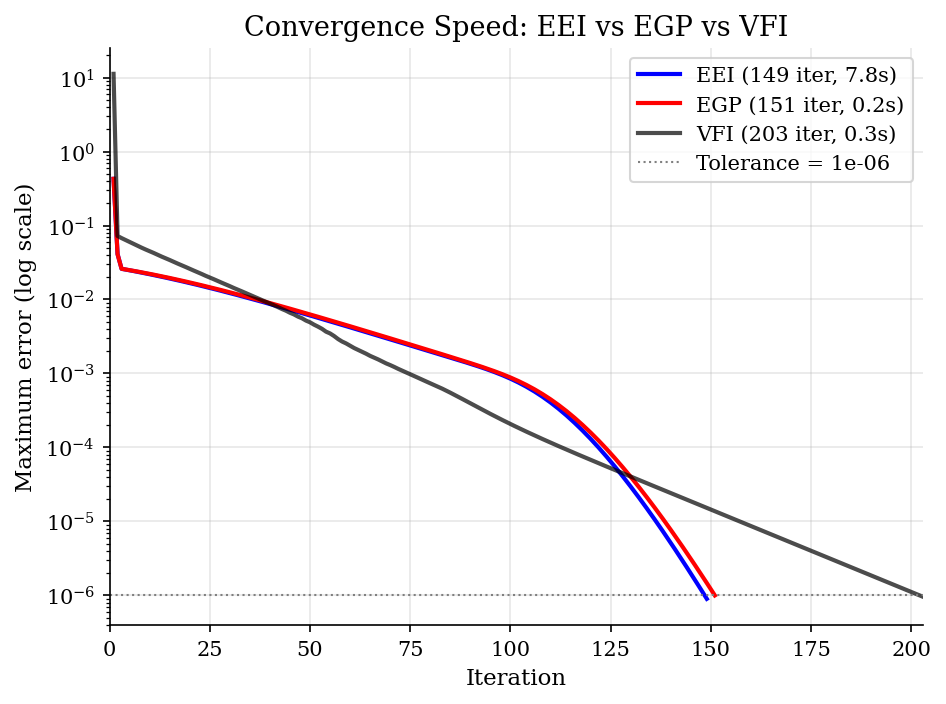
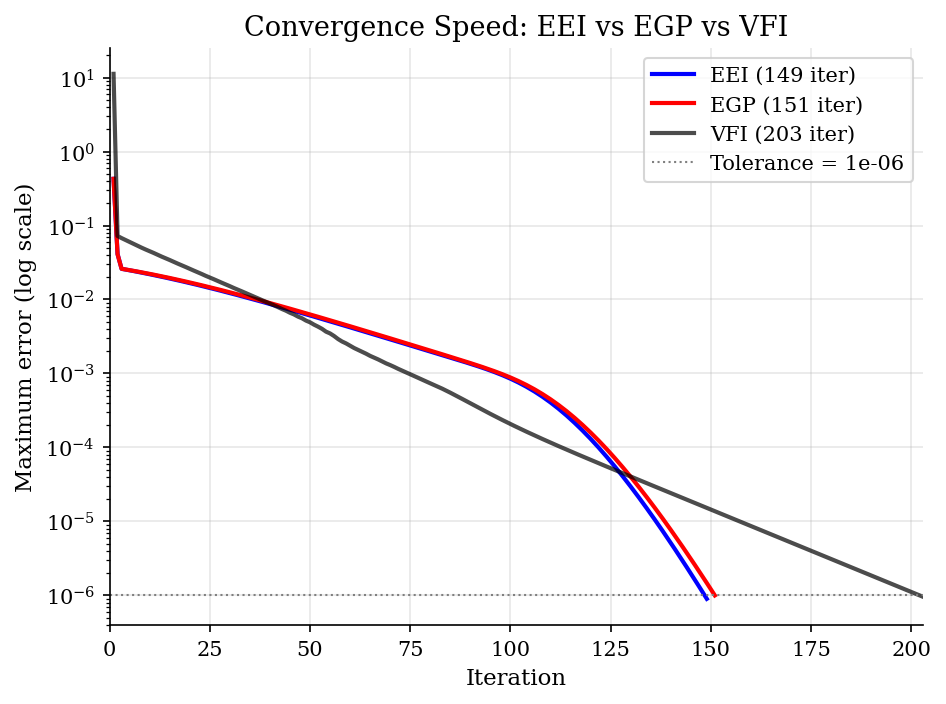
Rerun heterogeneous-agents/envelope-equation-iteration tutorial

Changed region(s): [[0.7357, 0.0938, 0.9503, 0.25], [0.6744, 0.1875, 0.7051, 0.25], [0.6744, 0.0938, 0.7051, 0.1562]]

diff --git a/heterogeneous-agents/envelope-equation-iteration/run.py b/heterogeneous-agents/envelope-equation-iteration/run.py
@@ -457,11 +457,13 @@ def main():
     )
 
     report.add_overview(
-        "The household problem is the same IID income-risk benchmark used in the "
-        "[buffer-stock VFI](../vfi-iid-income/) and "
-        "[endogenous-grid](../endogenous-grid-points/) tutorials. An impatient "
-        "household cannot borrow below $\\underline a=0$, so assets are valuable "
-        "because they insure consumption against bad income draws.\n\n"
+        "The household problem is the IID version of the buffer-stock saving "
+        "environment used in the "
+        "[endogenous-grid](../endogenous-grid-points/) tutorial and the broader "
+        "[income-risk savings](../../dynamic-programming/consumption-savings/) "
+        "benchmark. An impatient household cannot borrow below $\\underline a=0$, "
+        "so assets are valuable because they insure consumption against bad income "
+        "draws.\n\n"
         "This tutorial changes the computational object. EEI does not update the "
         "value level state by state, and it does not build the endogenous current "
         "asset grid used by EGP. It updates $W_a(a)$, the marginal value of entering "
@@ -469,8 +471,8 @@ def main():
         "realized. Given that marginal continuation value, the Euler equation chooses "
         "current consumption; given the consumption rule, the envelope condition "
         "updates $W_a(a)$.\n\n"
-        "The payoff from this example is conceptual as much as computational. VFI, "
-        "EGP, and EEI are three ways to compute the same buffer-stock saving policy. "
+        "The payoff from this example is conceptual as much as computational. Grid "
+        "VFI, EGP, and EEI are three routes to the same buffer-stock saving policy. "
         "The run solves all three on the coarse grid and adds a fine-grid EGP "
         "reference so the plotted EEI policy can be checked against a more accurate "
         "Euler-equation solution."
@@ -572,10 +574,10 @@ to consume.
         "```\n\n"
         f"The coarse-grid EEI solve converged in **{n_iter_eei} iterations** "
         f"with a consumption sup-norm error below $10^{{-6}}$. The same grid took "
-        f"{n_iter_egp} EGP iterations and {n_iter_vfi} grid-VFI iterations. The "
-        "wall-clock numbers are implementation-specific: this EEI code uses "
-        "bisection at every state to make the Euler step transparent, while EGP "
-        "avoids those one-dimensional solves.\n\n"
+        f"{n_iter_egp} EGP iterations and {n_iter_vfi} grid-VFI iterations. Those "
+        "iteration counts compare fixed-point objects, not optimized library "
+        "implementations: this EEI code uses bisection at every state to make the "
+        "Euler step transparent, while EGP avoids those one-dimensional solves.\n\n"
         f"A {na_ref}-point EGP solve provides the fine-grid reference. On the "
         f"plotted asset range $a\\leq 20$, the coarse EEI policy is within "
         f"{ref_c_gap:.2e} in consumption and {ref_s_gap:.2e} in next assets. "
@@ -656,11 +658,11 @@ to consume.
     # --- Figure 4: Convergence Comparison ---
     fig4, ax4 = plt.subplots()
     ax4.semilogy(range(1, len(eei_errors) + 1), eei_errors, 'b-', linewidth=2,
-                 label=f'EEI ({n_iter_eei} iter, {time_eei:.1f}s)')
+                 label=f'EEI ({n_iter_eei} iter)')
     ax4.semilogy(range(1, len(egp_errors) + 1), egp_errors, 'r-', linewidth=2,
-                 label=f'EGP ({n_iter_egp} iter, {time_egp:.1f}s)')
+                 label=f'EGP ({n_iter_egp} iter)')
     ax4.semilogy(range(1, len(vfi_errors) + 1), vfi_errors, 'k-', linewidth=2,
-                 alpha=0.7, label=f'VFI ({n_iter_vfi} iter, {time_vfi:.1f}s)')
+                 alpha=0.7, label=f'VFI ({n_iter_vfi} iter)')
     ax4.axhline(tol_iter, color='gray', linewidth=1, linestyle=':', label=f'Tolerance = {tol_iter:.0e}')
     ax4.set_xlabel("Iteration")
     ax4.set_ylabel("Maximum error (log scale)")
@@ -669,24 +671,20 @@ to consume.
     ax4.set_xlim(0, max(len(eei_errors), len(egp_errors), min(len(vfi_errors), 500)))
     report.add_figure("figures/convergence-comparison.png",
                        "Convergence paths for EEI, EGP, and grid VFI", fig4,
-        description="The convergence plot should be read by method, not just by clock "
-        "time. VFI contracts in value levels. EGP and EEI work with Euler-equation "
-        "objects, so their errors shrink in consumption-policy space. In this simple "
-        "Python implementation, EEI is slower in seconds because every state uses a "
-        "bisection solve; the figure's main point is the different fixed-point object.")
+        description="The convergence plot should be read by fixed-point object. VFI "
+        "contracts in value levels. EGP and EEI work with Euler-equation objects, so "
+        "their errors shrink in consumption-policy space. This transparent EEI "
+        "implementation uses bisection at every state; the figure's main point is the "
+        "different updating equation, not a timing race.")
 
     # --- Table: Solution Statistics ---
     table_data = {
         "Statistic": [
             "EEI iterations",
-            "EEI wall-clock time (s)",
             "Same-grid EGP iterations",
-            "Same-grid EGP wall-clock time (s)",
             "Same-grid VFI iterations",
-            "Same-grid VFI wall-clock time (s)",
             "Fine-grid reference points",
             "Fine-grid reference iterations",
-            "Fine-grid reference wall-clock time (s)",
             "Max consumption gap vs reference, a <= 20",
             "Max next-asset gap vs reference, a <= 20",
             "Mean assets / mean income",
@@ -699,14 +697,10 @@ to consume.
         ],
         "Value": [
             f"{n_iter_eei}",
-            f"{time_eei:.2f}",
             f"{n_iter_egp}",
-            f"{time_egp:.2f}",
             f"{n_iter_vfi}",
-            f"{time_vfi:.2f}",
             f"{na_ref}",
             f"{n_iter_ref}",
-            f"{time_ref:.2f}",
             f"{ref_c_gap:.2e}",
             f"{ref_s_gap:.2e}",
             f"{mean_assets:.4f}",

diff --git a/heterogeneous-agents/envelope-equation-iteration/README.md b/heterogeneous-agents/envelope-equation-iteration/README.md
@@ -4,11 +4,11 @@
 
 ## Overview
 
-The household problem is the same IID income-risk benchmark used in the [buffer-stock VFI](../vfi-iid-income/) and [endogenous-grid](../endogenous-grid-points/) tutorials. An impatient household cannot borrow below $\underline a=0$, so assets are valuable because they insure consumption against bad income draws.
+The household problem is the IID version of the buffer-stock saving environment used in the [endogenous-grid](../endogenous-grid-points/) tutorial and the broader [income-risk savings](../../dynamic-programming/consumption-savings/) benchmark. An impatient household cannot borrow below $\underline a=0$, so assets are valuable because they insure consumption against bad income draws.
 
 This tutorial changes the computational object. EEI does not update the value level state by state, and it does not build the endogenous current asset grid used by EGP. It updates $W_a(a)$, the marginal value of entering next period with one more unit of assets before the next IID income draw is realized. Given that marginal continuation value, the Euler equation chooses current consumption; given the consumption rule, the envelope condition updates $W_a(a)$.
 
-The payoff from this example is conceptual as much as computational. VFI, EGP, and EEI are three ways to compute the same buffer-stock saving policy. The run solves all three on the coarse grid and adds a fine-grid EGP reference so the plotted EEI policy can be checked against a more accurate Euler-equation solution.
+The payoff from this example is conceptual as much as computational. Grid VFI, EGP, and EEI are three routes to the same buffer-stock saving policy. The run solves all three on the coarse grid and adds a fine-grid EGP reference so the plotted EEI policy can be checked against a more accurate Euler-equation solution.
 
 ## Equations
 
@@ -102,7 +102,7 @@ For n = 0, 1, 2, ...:
 Output: consumption policy c, savings policy g, marginal value W_a
 ```
 
-The coarse-grid EEI solve converged in **149 iterations** with a consumption sup-norm error below $10^{-6}$. The same grid took 151 EGP iterations and 203 grid-VFI iterations. The wall-clock numbers are implementation-specific: this EEI code uses bisection at every state to make the Euler step transparent, while EGP avoids those one-dimensional solves.
+The coarse-grid EEI solve converged in **149 iterations** with a consumption sup-norm error below $10^{-6}$. The same grid took 151 EGP iterations and 203 grid-VFI iterations. Those iteration counts compare fixed-point objects, not optimized library implementations: this EEI code uses bisection at every state to make the Euler step transparent, while EGP avoids those one-dimensional solves.
 
 A 600-point EGP solve provides the fine-grid reference. On the plotted asset range $a\leq 20$, the coarse EEI policy is within 1.09e-02 in consumption and 1.09e-02 in next assets. Those gaps are grid and interpolation errors, not a different economic mechanism.
 
@@ -120,7 +120,7 @@ The terminal cross section is right-skewed, but modest. This is still the IID in
 
 <img src="figures/wealth-distribution.png" alt="Simulated terminal wealth distribution under the EEI policy" width="80%">
 
-The convergence plot should be read by method, not just by clock time. VFI contracts in value levels. EGP and EEI work with Euler-equation objects, so their errors shrink in consumption-policy space. In this simple Python implementation, EEI is slower in seconds because every state uses a bisection solve; the figure's main point is the different fixed-point object.
+The convergence plot should be read by fixed-point object. VFI contracts in value levels. EGP and EEI work with Euler-equation objects, so their errors shrink in consumption-policy space. This transparent EEI implementation uses bisection at every state; the figure's main point is the different updating equation, not a timing race.
 
 <img src="figures/convergence-comparison.png" alt="Convergence paths for EEI, EGP, and grid VFI" width="80%">
 
@@ -131,14 +131,10 @@ The table separates economic output from numerical diagnostics. The asset distri
 | Statistic                                 | Value    |
 |:------------------------------------------|:---------|
 | EEI iterations                            | 149      |
-| EEI wall-clock time (s)                   | 7.79     |
 | Same-grid EGP iterations                  | 151      |
-| Same-grid EGP wall-clock time (s)         | 0.16     |
 | Same-grid VFI iterations                  | 203      |
-| Same-grid VFI wall-clock time (s)         | 0.30     |
 | Fine-grid reference points                | 600      |
 | Fine-grid reference iterations            | 140      |
-| Fine-grid reference wall-clock time (s)   | 1.89     |
 | Max consumption gap vs reference, a <= 20 | 1.09e-02 |
 | Max next-asset gap vs reference, a <= 20  | 1.09e-02 |
 | Mean assets / mean income                 | 0.4118   |
